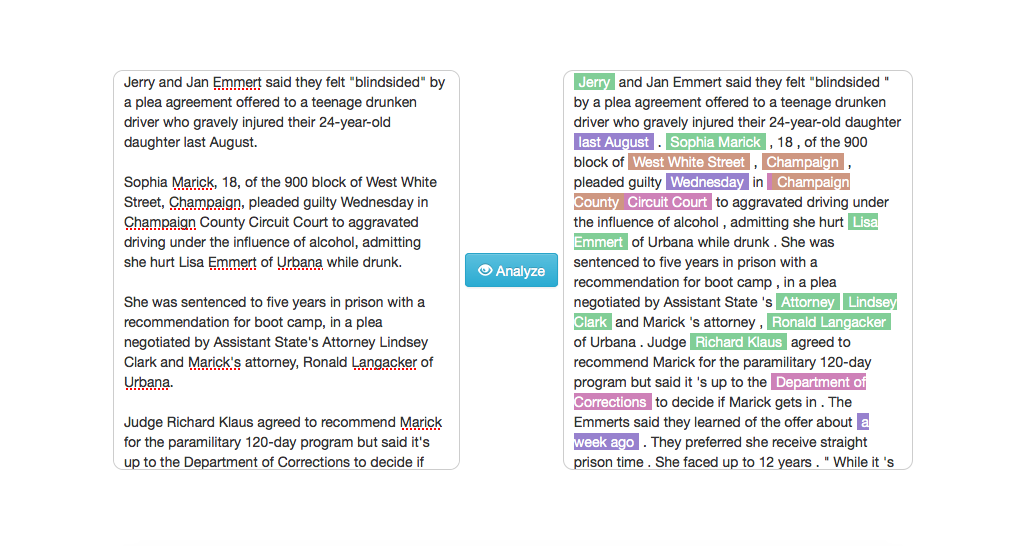
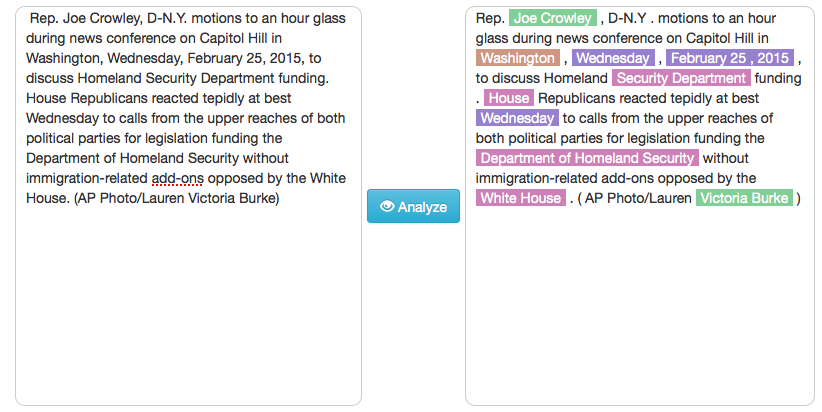
Update README

Changed region(s): [[0.0304, 0.0, 0.9732, 0.8738], [0.1217, 0.7573, 0.4562, 0.8738]]

diff --git a/README.md b/README.md
@@ -1,3 +1,7 @@
 # CS 5560 - NLP
 
-![Alt text](https://raw.githubusercontent.com/cnsgcu/CS5560/master/screenshot/demo.png "Optional Title")
+To extract date, person name, organization, and location information from text messages.
+
+# Screenshot
+
+![Alt text](https://raw.githubusercontent.com/cnsgcu/CS5560/master/screenshot/demo.png "Demo")
